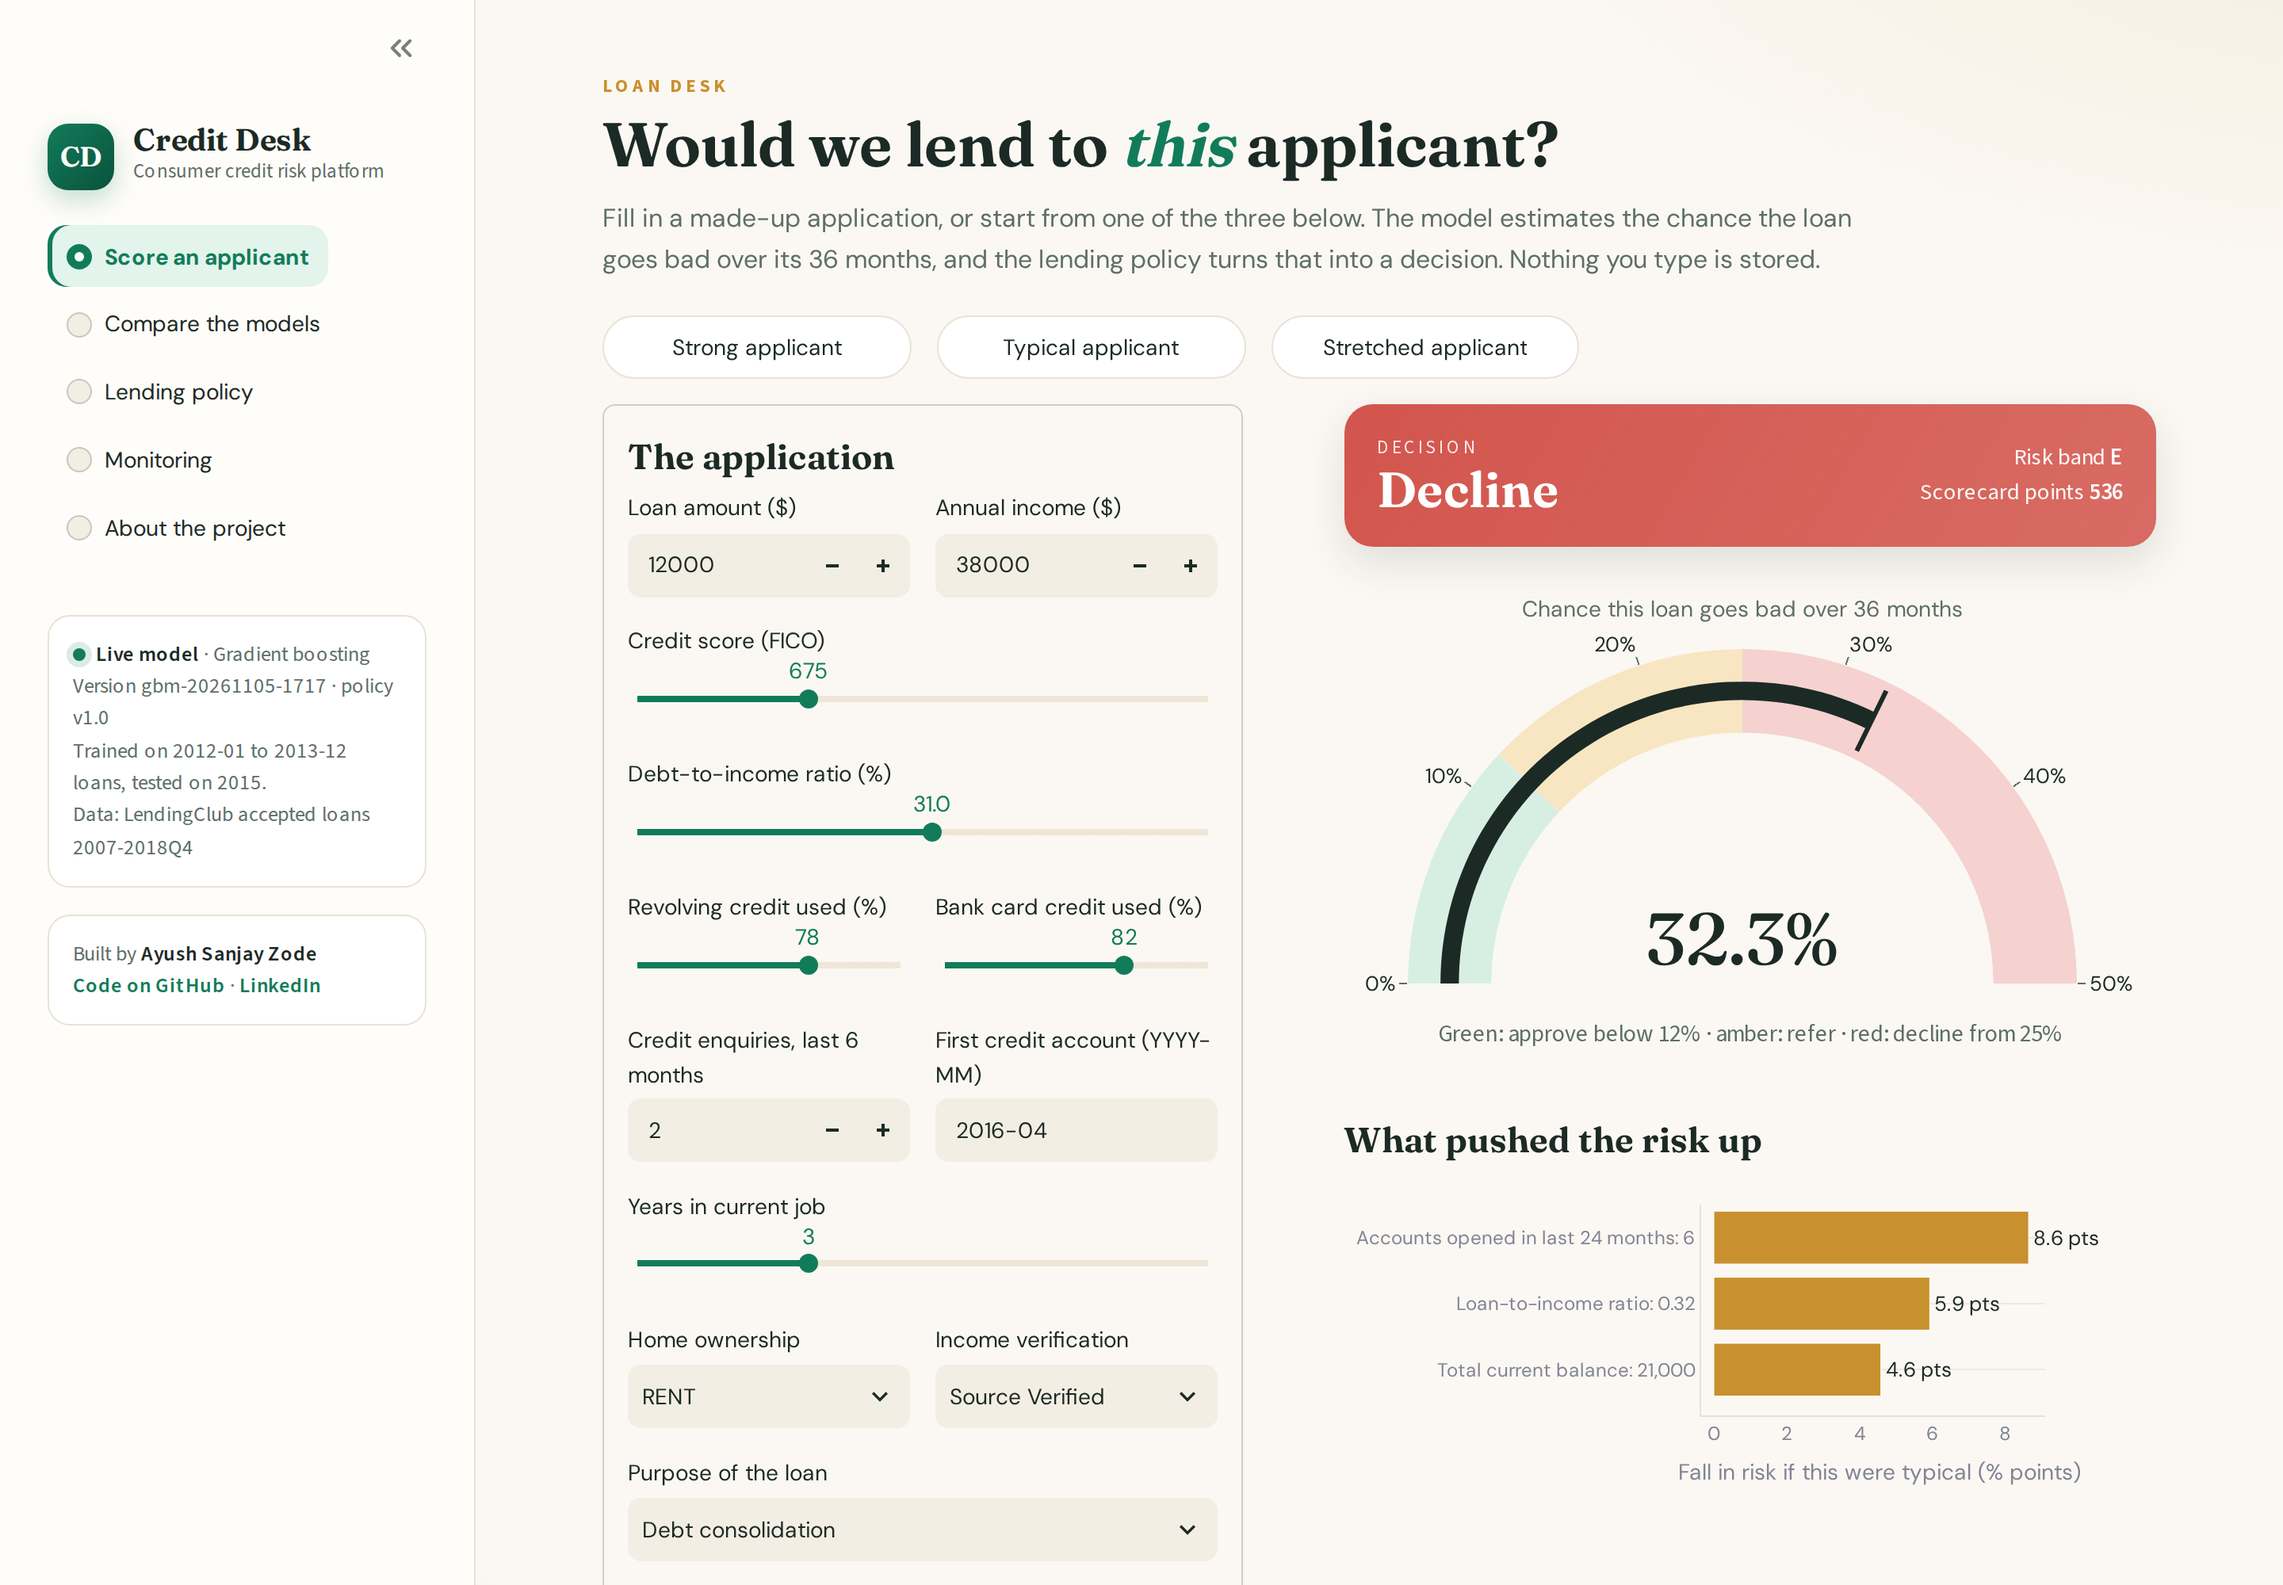
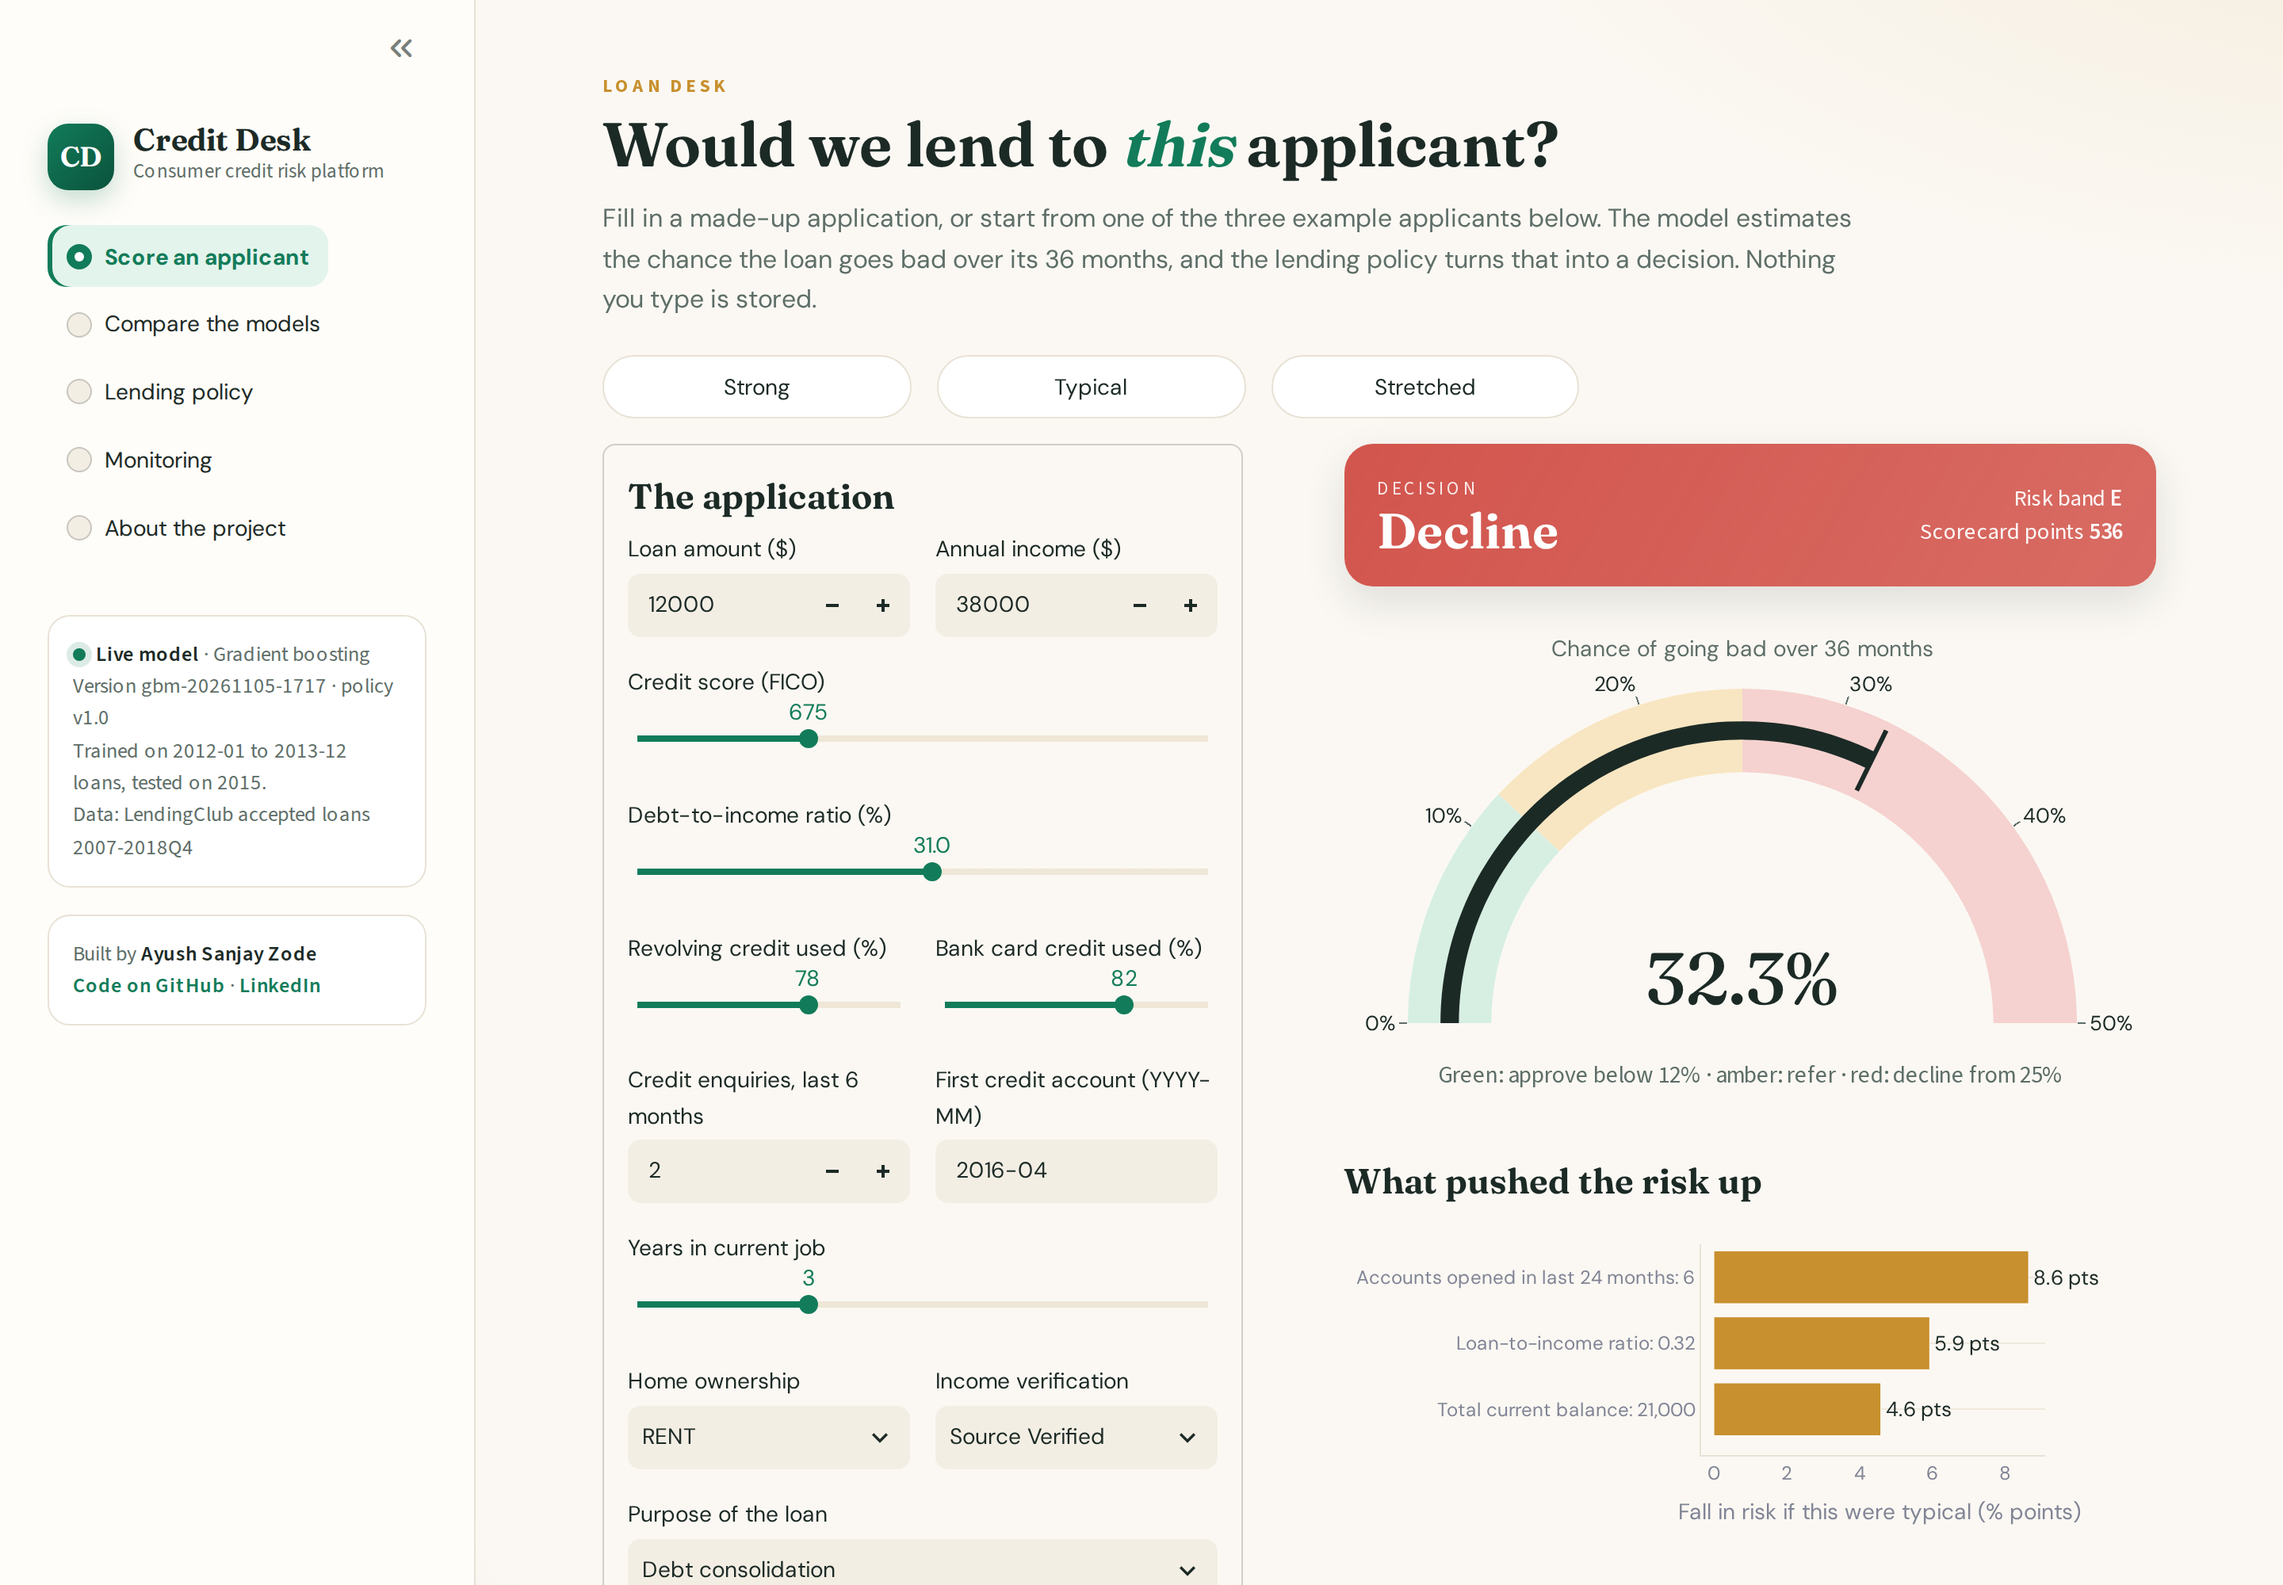
Update the app screenshot and test count

diff --git a/README.md b/README.md
@@ -198,7 +198,7 @@ consumer-credit-risk-platform/
 │   └── streamlit_app.py           # 5-page interactive app (Plotly charts)
 ├── notebooks/
 │   └── databricks_full_run.py     # full run on Databricks: Spark prep + all models
-├── tests/                         # 48 tests, synthetic data only
+├── tests/                         # 52 tests, no real loan data needed
 ├── examples/
 │   └── applicant.json
 ├── reports/
@@ -225,7 +225,7 @@ consumer-credit-risk-platform/
 conda create -n credit-risk python=3.12 -y
 conda activate credit-risk
 make setup        # install requirements and the package
-make test         # 48 tests on synthetic data (5 skip without the extras below)
+make test         # 52 tests, synthetic data (5 skip without the extras below)
 make demo         # whole pipeline on synthetic data, under a minute (overwrites reports/ and the model)
 ```
 

diff --git a/docs/cv_bullets.md b/docs/cv_bullets.md
@@ -10,7 +10,7 @@
   (scorecard 0.665).
 - Translated predictions into risk bands and approve / refer / decline cut-offs: 52% of 2015 loans
   approved automatically with an 8.5% bad rate and 3.71% expected loss (PD x LGD x EAD); added PSI
-  monitoring and a FastAPI / Streamlit service with reason codes, covered by 48 automated tests.
+  monitoring and a FastAPI / Streamlit service with reason codes, covered by 52 automated tests.
 - (Only after the Databricks run is done:) Ran the data preparation in PySpark on Databricks (same population as the DuckDB and pandas
   versions, checked by a test) and compared XGBoost and a PyTorch neural network with the scorecard
   on the same out-of-time loans.

diff --git a/docs/case_study.md b/docs/case_study.md
@@ -34,7 +34,7 @@ Build a credit decision workflow that:
   with a confidence interval above zero, and stay calibrated.
 - Set risk bands and cut-offs, estimated expected loss as PD x LGD x EAD, and ran a quarterly
   monitoring replay with PSI.
-- Wrapped the model in a FastAPI service and a Streamlit app, with 48 automated tests and GitHub
+- Wrapped the model in a FastAPI service and a Streamlit app, with 52 automated tests and GitHub
   Actions.
 
 ## Results
